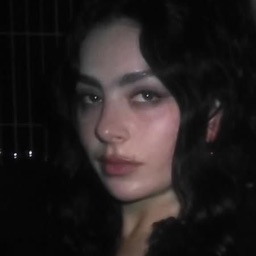
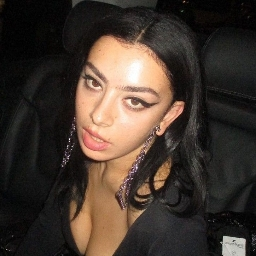
pfp

diff --git a/m/baph/index.html b/m/baph/index.html
@@ -11,7 +11,7 @@
   <body>
     <div class="main">
       <h1 id="baphh1" class="lang">cutest goat around!~</h1>
-      <img class="pfp" src="./pfp.webp">
+      <img class="pfp" src="./pfp.png">
 	  <h2 id="baphh2" class="lang">pick a door!~</h2>
 	  <a href="./abt.html" class="button lang" id="baphbt1">Abt me! ^^</a>
       <a href="./gender/" class="button lang" id="baphbt2">Gender~</a>
